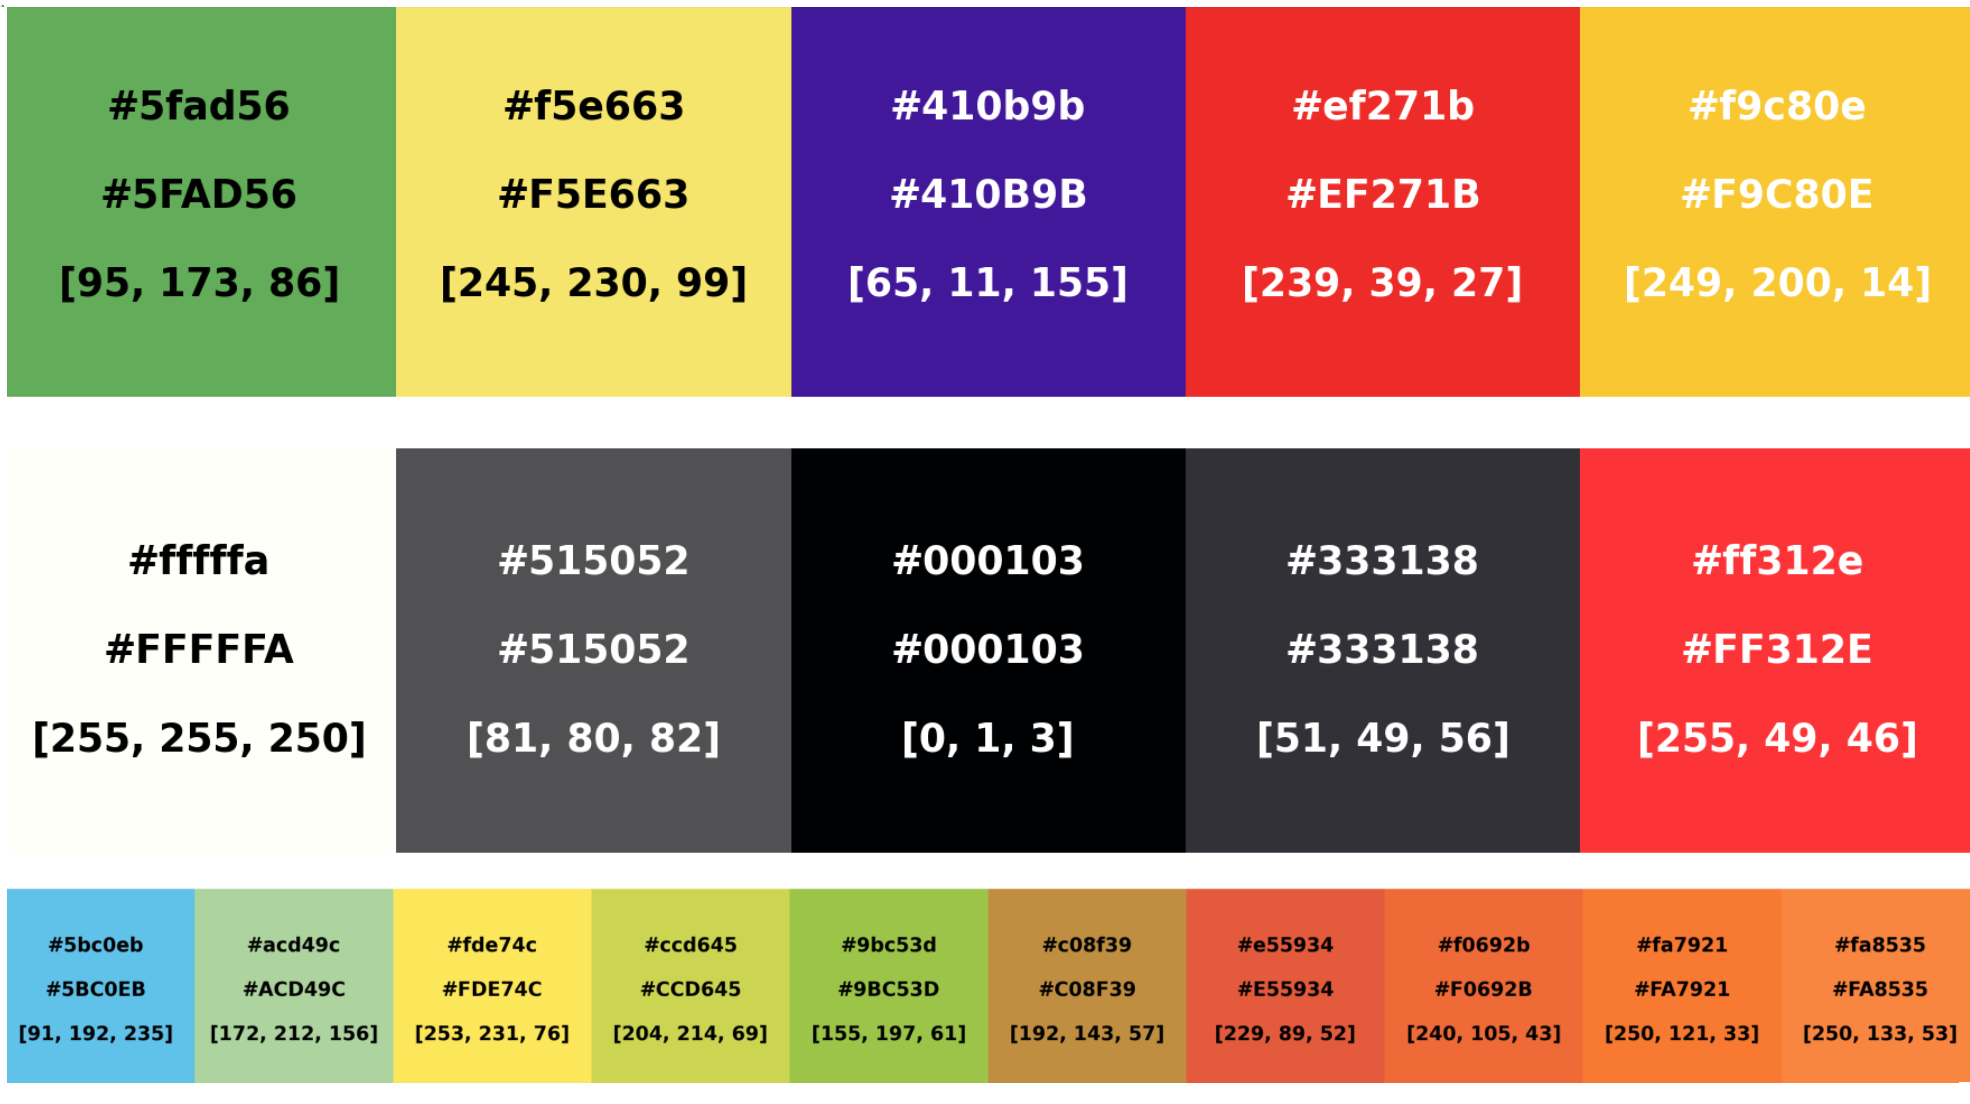
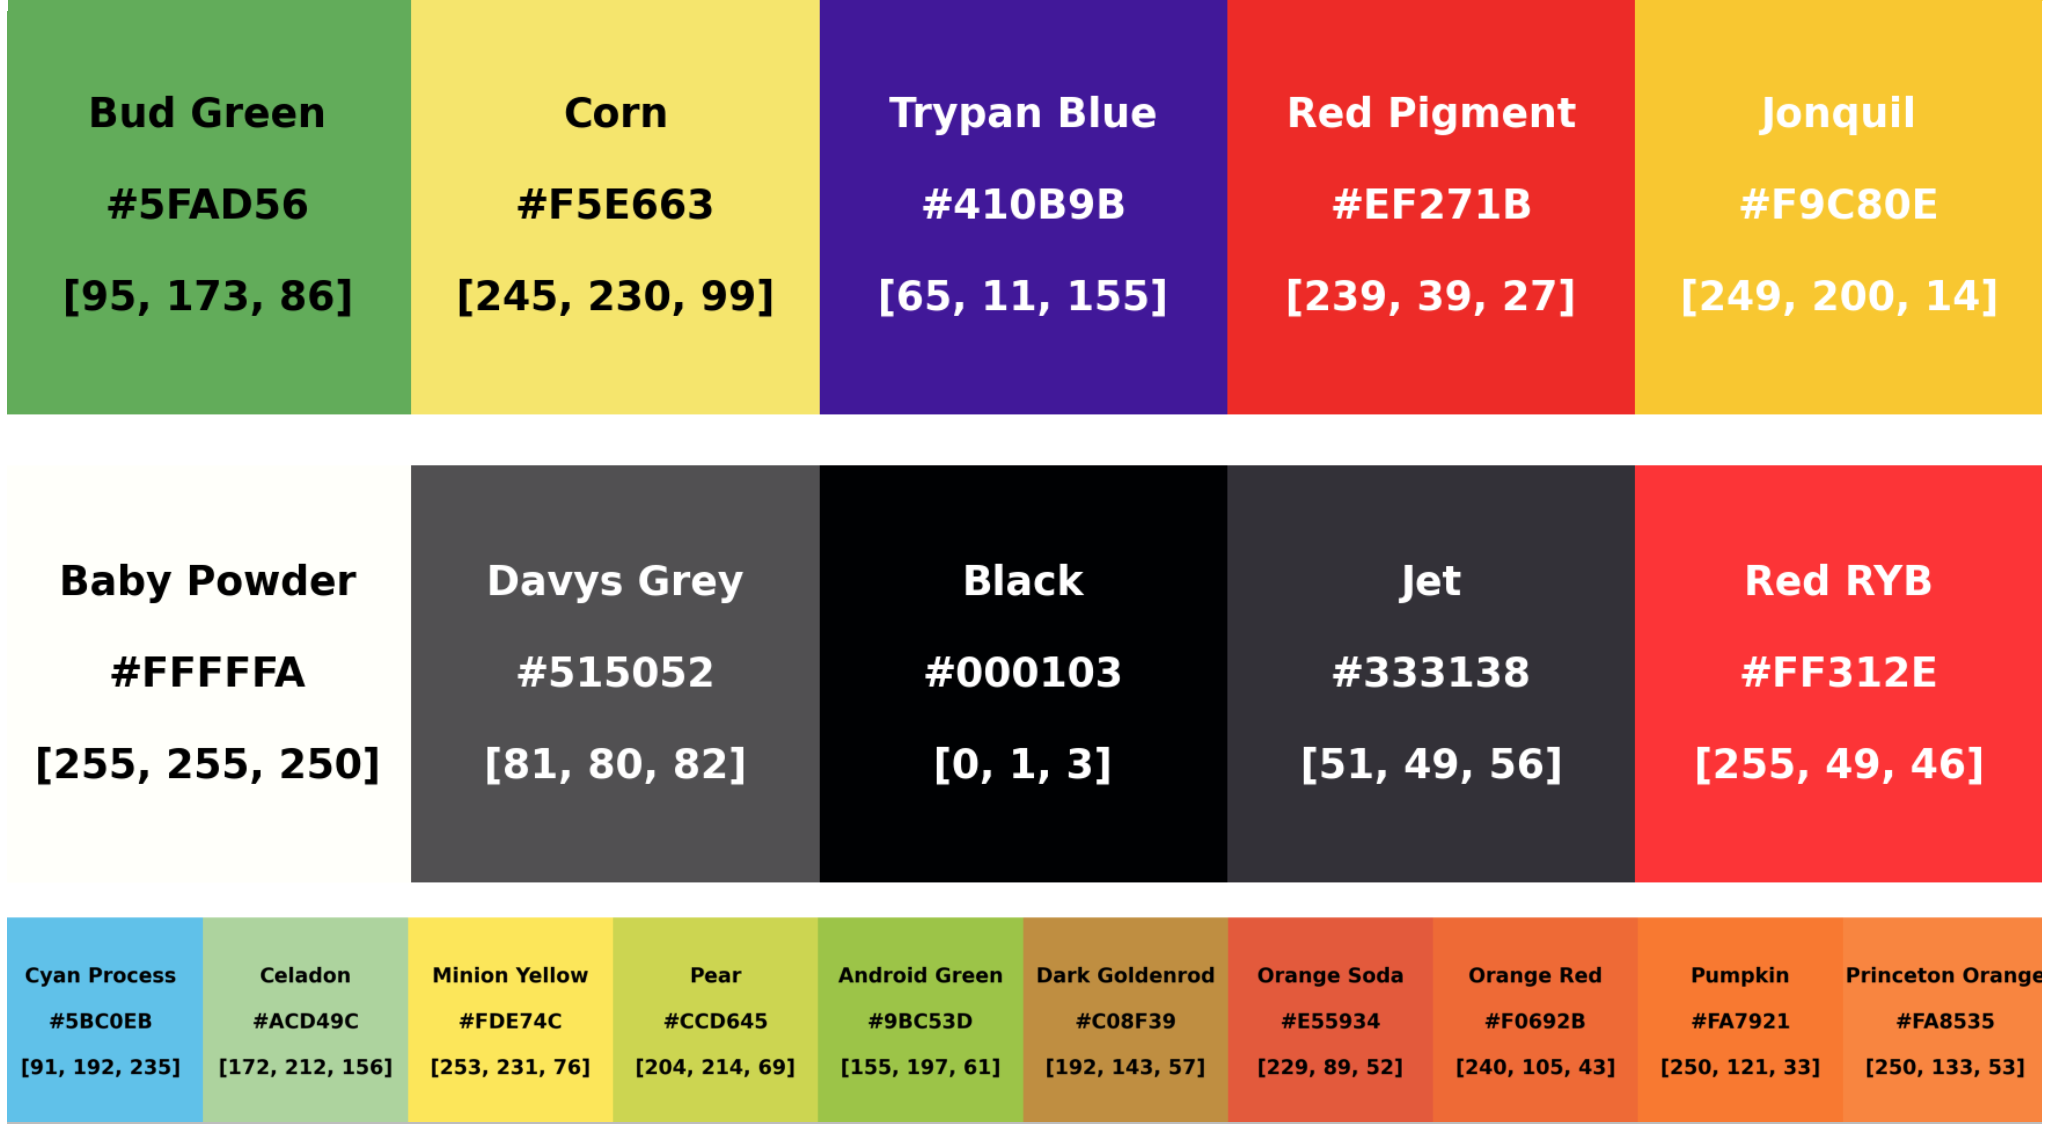
Found and fixed a minor bug with color names

diff --git a/setup.py b/setup.py
@@ -16,9 +16,9 @@ INSTALL_REQUIRES = [
 ]
 
 setup(name='mypalette',
-      version='1.0.1.0',
+      version='1.0.1.1',
       url='https://github.com/MattiaCinelli/mycolorpalette',
-      description='Define your Python plot style',
+      description='Define and manage your plot colors in Python',
       packages=['mypalette'],
       install_requires=INSTALL_REQUIRES,
       author='Mattia Cinelli',

diff --git a/mypalette/load_palette.py b/mypalette/load_palette.py
@@ -244,7 +244,7 @@ class LoadPalette():
             try:
                 Names.append(webcolors.hex_to_name(x))
             except ValueError:
-                Names.append(x)
+                Names.append("")
 
         rgb = [clr.to_rgb(x) for x in hexadecimal]
 

diff --git a/mypalette/examples.md b/mypalette/examples.md
@@ -18,18 +18,6 @@ It results:
  'Names': ['Bud Green', 'Corn', 'Trypan Blue', 'Red Pigment', 'Jonquil']}
 ```
 
-## Create Palette From Hex List
-```python
-p = LoadPalette()
-#from https://coolors.co/5fad56-f5e663-410b9b-ef271b-f9c80e
-_ = p.create_palette_from_hex_list(['#5fad56', '#f5e663', '#410b9b', '#ef271b', '#f9c80e'], output_json='palette_1.json')
-#from https://coolors.co/fffffa-515052-000103-333138-ff312e
-_ = p.create_palette_from_hex_list(['#fffffa', '#515052', '#000103', '#333138', '#ff312e'], output_json='palette_2.json')
-#from https://coolors.co/5bc0eb-acd49c-fde74c-ccd645-9bc53d-c08f39-e55934-f0692b-fa7921-fa8535
-_ = p.create_palette_from_hex_list(['#5bc0eb', '#acd49c', '#fde74c', '#ccd645', '#9bc53d', '#c08f39', '#e55934', '#f0692b', '#fa7921', '#fa8535'], output_json='palette_3.json')
-```
-Same results as for create_new_palette
-
 ## Load Palette 
 ```python
 palette.load_palette(json_path='palette.json')
@@ -40,8 +28,28 @@ palette.load_palette(json_path='palette.json')
 
 ## Visualize Palettte 
 ```python
+from mypalette import LoadPalette, visualize_palette
+palette = LoadPalette()
+#from https://coolors.co/5fad56-f5e663-410b9b-ef271b-f9c80e
+p = palette.create_new_palette(input_txt='palette_1.txt', output_json='palette_1.json')
+#from https://coolors.co/fffffa-515052-000103-333138-ff312e
+p = palette.create_new_palette(input_txt='palette_2.txt', output_json='palette_2.json')
+#from https://coolors.co/5bc0eb-acd49c-fde74c-ccd645-9bc53d-c08f39-e55934-f0692b-fa7921-fa8535
+p = palette.create_new_palette(input_txt='palette_3.txt', output_json='palette_3.json')
+
 _ = visualize_palette(json_path = 'palette_1.json')
 _ = visualize_palette(json_path = 'palette_2.json')
 _ = visualize_palette(json_path = 'palette_3.json')
 ```
 ![result](https://github.com/MattiaCinelli/mycolorpalette/blob/master/commons/vs_results.png?raw=true)
+
+## Create Palette From Hex List
+```python
+from mypalette import LoadPalette, visualize_palette
+palette = LoadPalette()
+
+_ = palette.create_palette_from_hex_list(['#5fad56', '#f5e663', '#410b9b', '#ef271b', '#f9c80e'], output_json='palette_1.json')
+_ = palette.create_palette_from_hex_list(['#fffffa', '#515052', '#000103', '#333138', '#ff312e'], output_json='palette_2.json')
+_ = palette.create_palette_from_hex_list(['#5bc0eb', '#acd49c', '#fde74c', '#ccd645', '#9bc53d', '#c08f39', '#e55934', '#f0692b', '#fa7921', '#fa8535'], output_json='palette_3.json')
+```
+Same results as for create_new_palette
